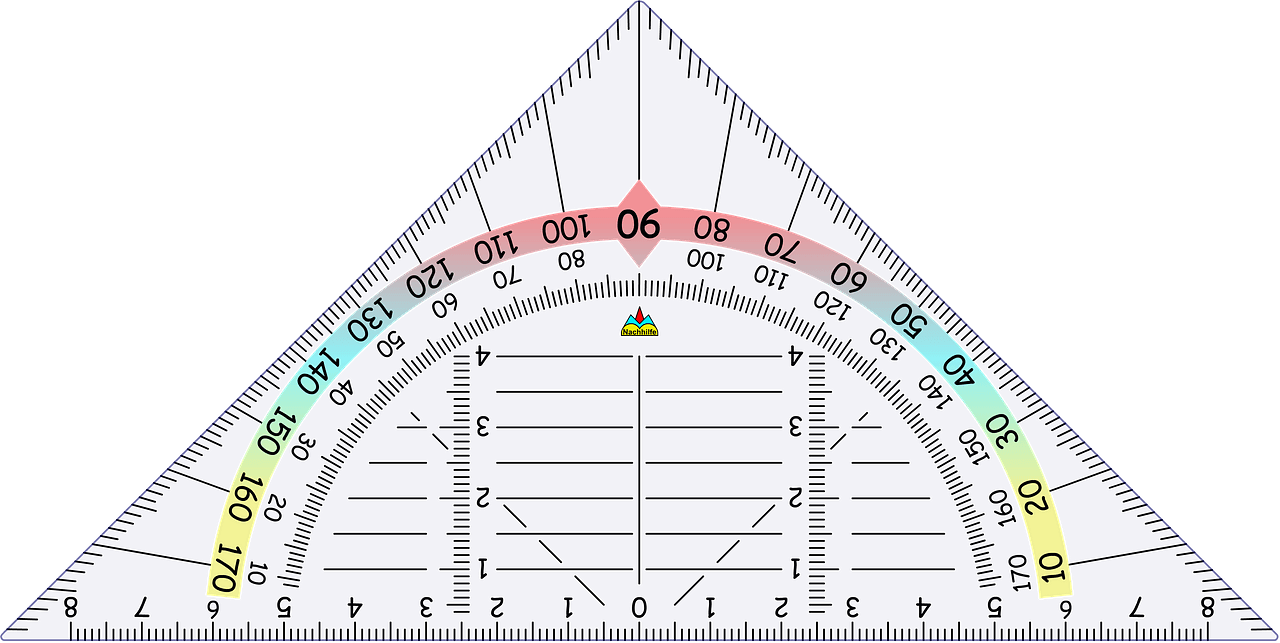
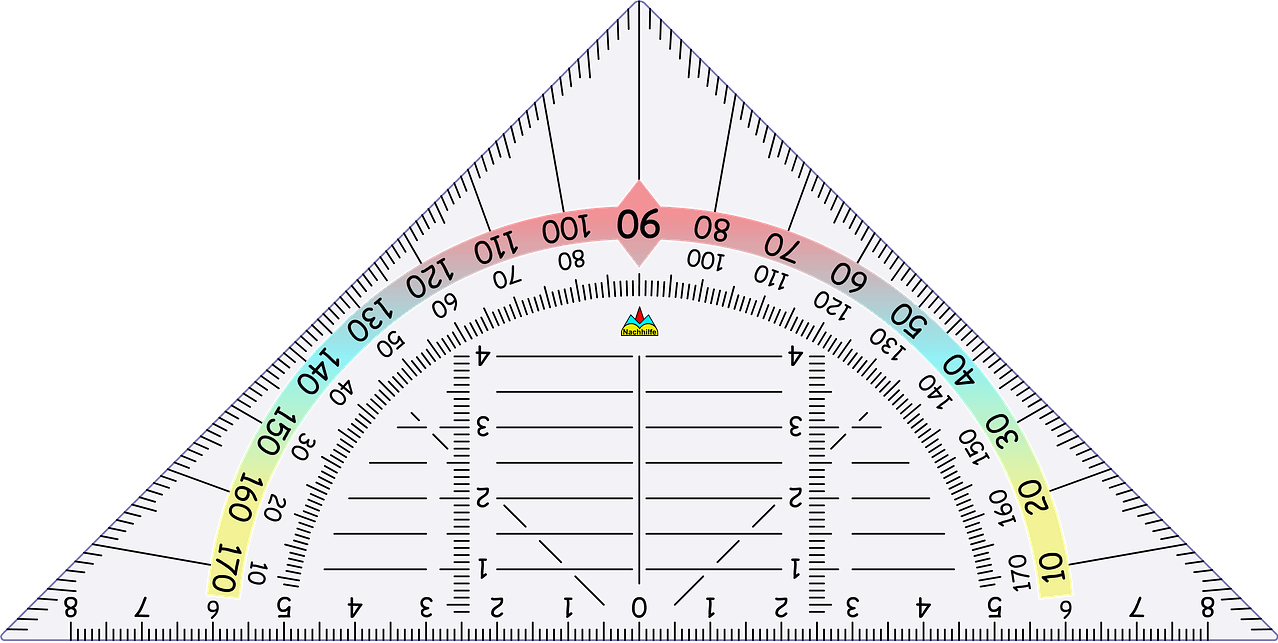
Refactor geometry snapping logic for improved accuracy and responsiveness

diff --git a/visualisierung/tools/Geometrie-Zeichner.html b/visualisierung/tools/Geometrie-Zeichner.html
@@ -419,7 +419,7 @@ function applyDoc(d){
    if(num(g.size))geoSize=Math.max(25,Math.min(200,g.size));
    if(num(g.angle))geoAngle=g.angle;
   }
-  if($('geo').checked&&!geoPos)geoPos={x:wx(W/2),y:wy(H/2)};
+  if($('geo').checked&&!geoPos)geoPos=snapGeodreieckZero(wx(W/2),wy(H/2));
   $('georeset').style.display=$('geo').checked?'':'none';
   if(Array.isArray(d.recorder)&&d.recorder.length>1){
    try{snaps=d.recorder.map(s=>JSON.stringify(cleanState(s)))}catch(err){snaps=[]}
@@ -602,7 +602,7 @@ $('fc').oninput=()=>{refreshMainSwatches();draw()};
 $('unit').onchange=()=>draw();
 $('step').onchange=()=>draw();
 $('georeset').onclick=()=>{geoAngle=0;draw()};
-$('geo').onchange=()=>{$('geo').blur();$('georeset').style.display=$('geo').checked?'':'none';if($('geo').checked&&!geoPos)geoPos={x:wx(W/2),y:wy(H/2)};draw()};
+$('geo').onchange=()=>{$('geo').blur();$('georeset').style.display=$('geo').checked?'':'none';if($('geo').checked&&!geoPos)geoPos=snapGeodreieckZero(wx(W/2),wy(H/2));draw()};
 $('georeset').style.display='none';
 function zoom(k2,mx,my){k2=Math.max(20,Math.min(150,k2));ox=mx-(mx-ox)*k2/k;oy=my-(my-oy)*k2/k;k=k2;$('sz').value=k;draw()}
 cv.addEventListener('wheel',e=>{e.preventDefault();const p=pos(e);zoom(k*(e.deltaY<0?1.1:1/1.1),p.x,p.y)},{passive:false});
@@ -1514,9 +1514,12 @@ cv.addEventListener('pointermove',e=>{
  if(rmbDown&&Math.hypot(e.clientX-rmbDown.x,e.clientY-rmbDown.y)>=5){rmbDown.moved=true}
  if(geoDrag){
   if(geoDrag.type=='move'){
-   const rawX=geoDrag.px+(wx(mouse.x)-geoDrag.mx);
-   const rawY=geoDrag.py+(wy(mouse.y)-geoDrag.my);
-   geoPos=snapGeodreieckZero(rawX,rawY);
+    const rawX=geoDrag.px+(wx(mouse.x)-geoDrag.mx);
+    const rawY=geoDrag.py+(wy(mouse.y)-geoDrag.my);
+    if(isSnapActive()){
+      const step=+$('step').value||0.5;
+      geoPos={x:Math.round(rawX/step)*step,y:Math.round(rawY/step)*step};
+    }else geoPos={x:rawX,y:rawY};
   }else if(geoDrag.type=='rotate'){
    const cx=X(geoPos.x),cy=Y(geoPos.y);
    let angle=Math.atan2(mouse.y-cy,mouse.x-cx)*180/Math.PI+90;
@@ -1526,7 +1529,7 @@ cv.addEventListener('pointermove',e=>{
   }else if(geoDrag.type=='scale'){
     const cx=X(geoPos.x),cy=Y(geoPos.y);
     const distance=Math.hypot(mouse.x-cx,mouse.y-cy);
-   const size=Math.round(Math.max(25,Math.min(200,geoDrag.size*distance/geoDrag.distance)));
+    const size=Math.round(Math.max(25,Math.min(200,geoDrag.size*distance/geoDrag.distance))*5)/5;
    geoSize=size;
   }
   draw();return;

diff --git a/generator/tasks.js b/generator/tasks.js
@@ -908,9 +908,6 @@ case 'kleines_1x1_komplett':
 case 'addition_subtraktion_bis_20':
 case 'addition_subtraktion_bis_100':
 case 'addition_subtraktion_bis_1000': {
-		let expr;
-		let solution;
-		let answer;
 		if (type.startsWith('einmaleins_')) {
 			const row = Number(type.slice('einmaleins_'.length));
 			const otherFactor = randInt(1, 10);
@@ -976,14 +973,10 @@ case 'addition_subtraktion_bis_1000': {
 		}
 		textDisplay = expr;
 		s = solution;
-		answer = answer;
 		break;
 	}
 	case 'ganze_zahlen_multiplizieren_dividieren': {
 		if (isQuizMode) {
-			let expr;
-			let solution;
-			let answer;
 			if (Math.random() > 0.5) {
 				do {
 					v1 = rnd(-15, 15);
@@ -1007,7 +1000,6 @@ case 'addition_subtraktion_bis_1000': {
 			}
 			textDisplay = expr;
 			s = solution;
-			answer = answer;
 		} else {
 			let expr;
 			let solution;
